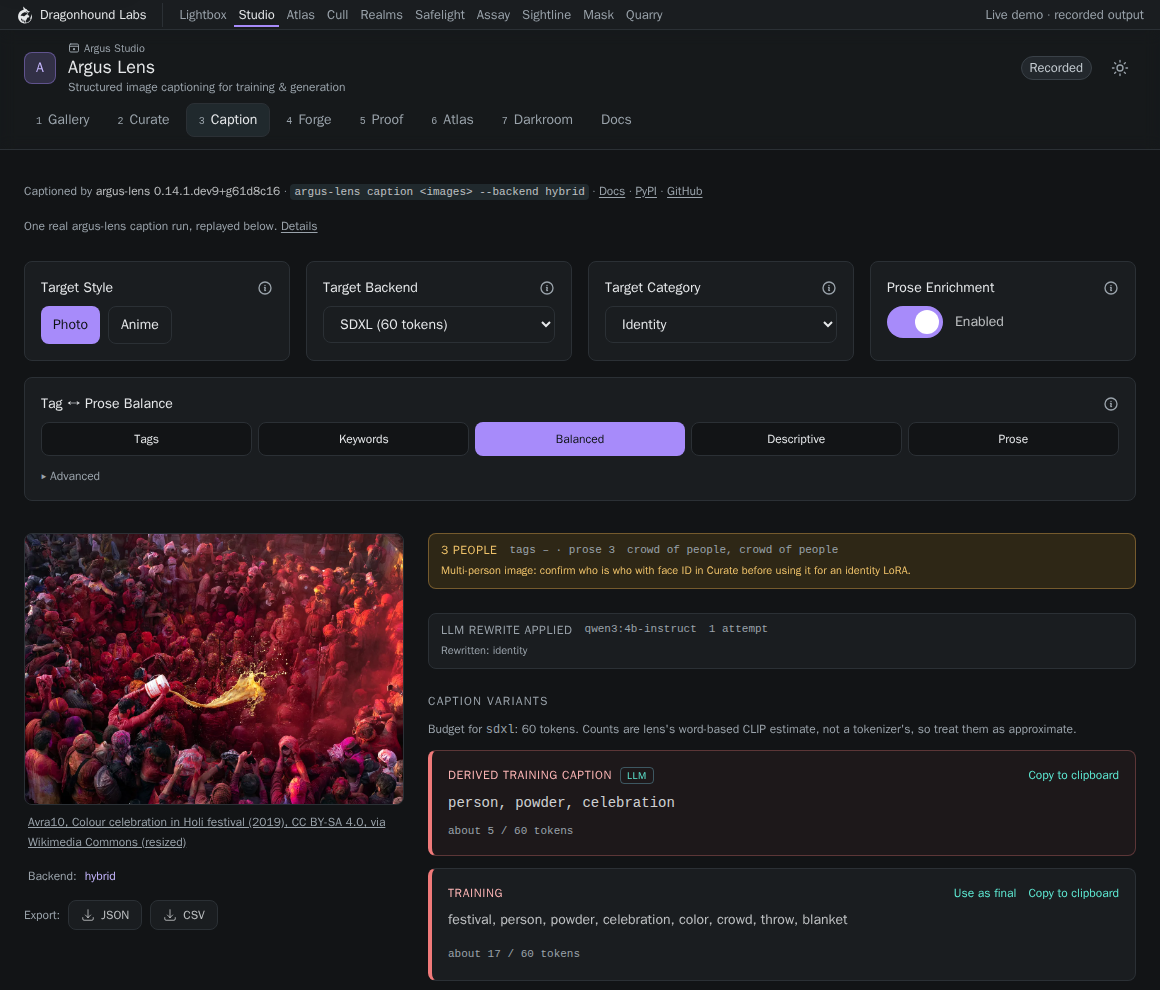
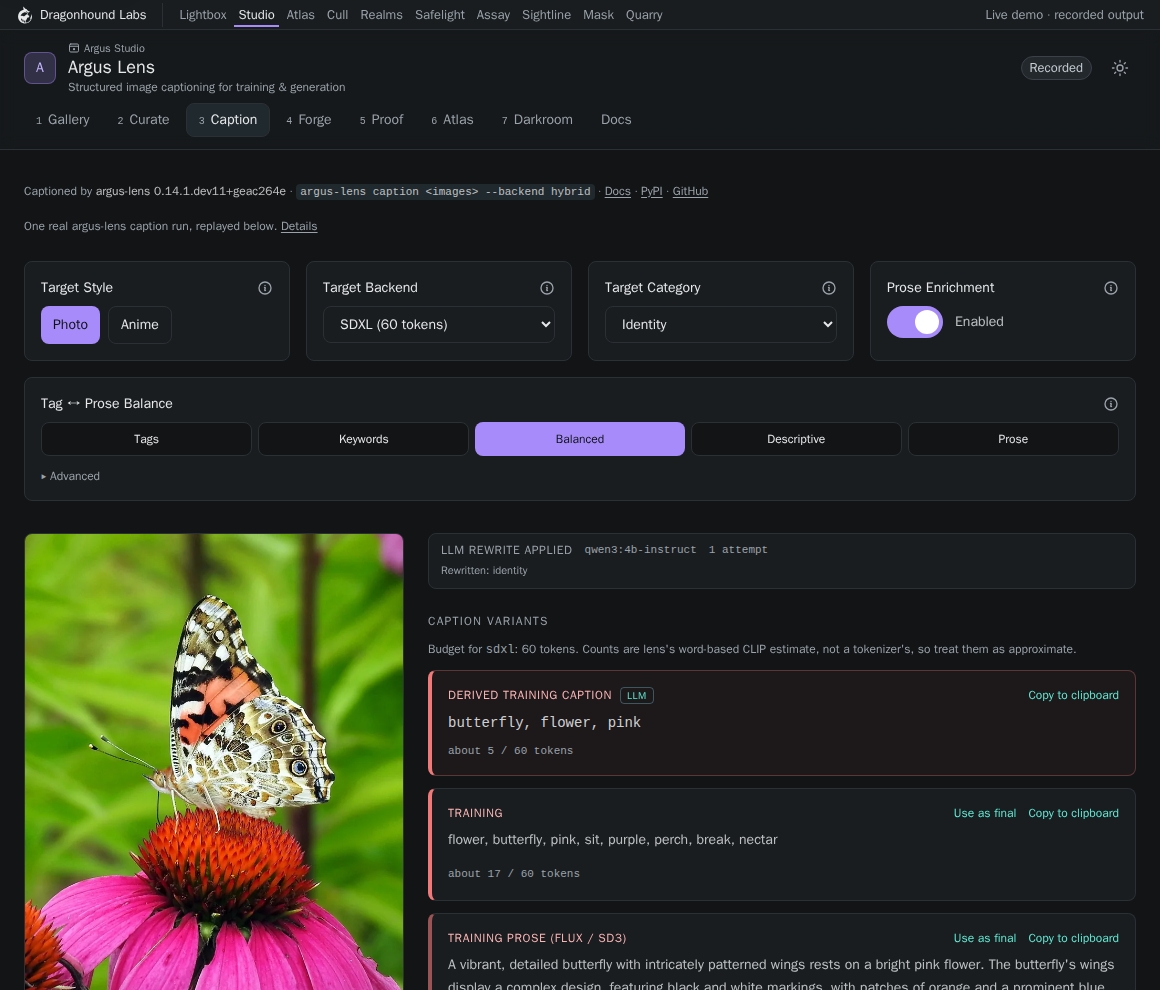
Caption demo: Lightbox's Painted Lady on lens dev HEAD
Swaps the CC BY-SA Holi photo for a public-domain one shared from
argus-lightbox's demo set (U.S. Fish and Wildlife Service, "Painted
Lady", Public Domain Mark 1.0), so both caption demos keep to CC0/PD
media. Re-recorded on argus-lens 0.14.1.dev11 (eac264e, dev HEAD) with
the same flags; demo.json's lens pin follows. README screenshots
retaken.

diff --git a/frontend/src/lib/lensSample.ts b/frontend/src/lib/lensSample.ts
@@ -1,73 +1,65 @@
 /**
  * Recorded argus-lens caption for the static demo (lib/staticDemo.ts).
  *
- * Provenance: a real argus-lens 0.14.1.dev9+g61d8c16 run (its `dev` HEAD,
- * recorded 2026-11-20) of `argus-lens caption -b hybrid:ram+openai-compat
+ * Provenance: a real argus-lens 0.14.1.dev11+geac264e run (its `dev` HEAD,
+ * recorded 2026-11-21) of `argus-lens caption -b hybrid:ram+openai-compat
  * --prompt straightforward --refine-variants identity`: RAM++ tags on CUDA
  * (under an argus-iris `caption` lease), qwen3-vl:2b-instruct prose and the
  * identity variant refined by qwen3:4b-instruct, both from Ollama on CPU. The
  * result is kept verbatim, less the `name` the JSON exporter adds; only the
  * recording fields at the end of `metadata` (from `recorded` on) are Studio's.
- * The source image is "Colour celebration in Holi festival" by Avra10 (2019,
- * a Wiki Loves Folklore 2024 winner) on Wikimedia Commons, CC BY-SA 4.0,
- * captioned at its full 1920x1372; a resized WebP copy (1200x858, under the
- * same licence) ships at `public/demo/lens/holi-festival-2019.webp`.
+ * The source image is "Painted Lady" by the U.S. Fish and Wildlife Service,
+ * Northeast Region, on Flickr under the Public Domain Mark 1.0, shared from
+ * argus-lightbox's demo tape (photo d34f3d90d7e87939, via Megalith-10m): the
+ * same 720x960 WebP, captioned as is, ships at
+ * `public/demo/lens/painted-lady.webp`.
  */
 
 import type { CaptionResult } from "@/types";
 
 export const RECORDED_CAPTION: CaptionResult = {
-  "final_caption": "person, powder, celebration",
+  "final_caption": "butterfly, flower, pink",
   "caption_variants": {
-    "identity": "person, powder, celebration",
-    "wardrobe": "festival, person, powder, some are bent, reaching out, others are standing with arms raised",
-    "pose_composition": "some are bent, reaching out, others are standing with arms raised, festival, person, powder",
-    "setting": "festival, person, powder, some are bent, reaching out, others are standing with arms raised",
-    "lighting": "festival, person, powder, some are bent, reaching out, others are standing with arms raised",
-    "action": "a high-angle view captures a vibrant holi festival scene, focusing on a central figure holding a white bucket, from which a thick stream of yellow-colored powder erupts upward, striking a dense crowd of people",
-    "training": "festival, person, powder, celebration, color, crowd, throw, blanket",
-    "training_prose": "A high-angle view captures a vibrant Holi festival scene, focusing on a central figure holding a white bucket, from which a thick stream of yellow-colored powder erupts upward, striking a dense crowd of people.",
-    "zeroshot": "the ground is obscured by the falling powder, creating a dynamic visual effect as the particles rise against the backdrop of a crowd of people, filled with a riot of color, with the red and orange hues of the festival dominating the visual landscape"
+    "identity": "butterfly, flower, pink",
+    "wardrobe": "flower, butterfly, pink, a vibrant, detailed butterfly with intricately patterned wings rests on a bright pink flower",
+    "pose_composition": "flower, butterfly, pink, a vibrant, detailed butterfly with intricately patterned wings rests on a bright pink flower",
+    "setting": "the background is a soft, out-of-focus green, suggesting a natural outdoor setting, flower, butterfly, pink",
+    "lighting": "a vibrant, detailed butterfly with intricately patterned wings rests on a bright pink flower, flower, butterfly, pink",
+    "action": "flower, butterfly, pink, a vibrant, detailed butterfly with intricately patterned wings rests on a bright pink flower",
+    "training": "flower, butterfly, pink, sit, purple, perch, break, nectar",
+    "training_prose": "A vibrant, detailed butterfly with intricately patterned wings rests on a bright pink flower. The butterfly's wings display a complex design, featuring black and white markings, with patches of orange and a prominent blue eye-like spot near the wingtip.",
+    "zeroshot": "the flower has a dense, spiky orange center and wide, velvety pink petals, flower, butterfly, sit, purple, perch, break, nectar, a vibrant, detailed butterfly with intricately patterned wings rests on a bright pink flower"
   },
   "selected_category": "identity",
   "removed_phrases": [
-    "celebrate",
-    "spray",
-    "liquid",
-    "flare",
-    "crowded",
-    "the individuals, many with their heads covered in a mix of red and other colored powders, are tightly packed in a circular formation",
-    "the ground is obscured by the falling powder, creating a dynamic visual effect as the particles rise against the backdrop of a crowd of people",
-    "filled with a riot of color, with the red and orange hues of the festival dominating the visual landscape",
-    "some are bent over, reaching out, and others are standing with arms raised",
-    "a high-angle view captures a vibrant holi festival scene, focusing on a central figure holding a white bucket, from which a thick stream of yellow-colored powder erupts upward, striking a dense crowd of people",
-    "celebration",
-    "color",
-    "crowd",
-    "throw",
-    "blanket",
-    "festival",
-    "person",
-    "powder",
-    "the individuals, many with their heads covered in a mix of red and other colored powders, are tightly packed in a circular formation.",
-    "some are bent over, reaching out, and others are standing with arms raised.",
-    "the ground is obscured by the falling powder, creating a dynamic visual effect as the particles rise against the backdrop of a crowd of people.",
-    "filled with a riot of color, with the red and orange hues of the festival dominating the visual landscape."
+    "the flower has a dense, spiky orange center and wide, velvety pink petals",
+    "the butterfly's wings display a complex design, featuring black and white markings, with patches of orange and a prominent blue eye-like spot near the wingtip",
+    "a vibrant, detailed butterfly with intricately patterned wings rests on a bright pink flower",
+    "the background is a soft, out-of-focus green, suggesting a natural outdoor setting",
+    "sit",
+    "purple",
+    "perch",
+    "break",
+    "nectar",
+    "flower",
+    "butterfly",
+    "pink",
+    "the flower has a dense, spiky orange center and wide, velvety pink petals.",
+    "the background is a soft, out-of-focus green, suggesting a natural outdoor setting."
   ],
   "compaction_notes": [
-    "Normalised prose (opener).",
     "Trimmed lower-priority fragments to keep captions compact.",
     "Repaired disjointed fragments in assembled captions.",
     "Refined identity with qwen3:4b-instruct."
   ],
-  "raw_tags": "festival, person, powder, celebration, color, crowd, throw, blanket, celebrate, spray, liquid, flare, crowded",
-  "raw_prose": "A high-angle view captures a vibrant Holi festival scene, focusing on a central figure holding a white bucket, from which a thick stream of yellow-colored powder erupts upward, striking a dense crowd of people. The individuals, many with their heads covered in a mix of red and other colored powders, are tightly packed in a circular formation. Some are bent over, reaching out, and others are standing with arms raised. The ground is obscured by the falling powder, creating a dynamic visual effect as the particles rise against the backdrop of a crowd of people. The scene is filled with a riot of color, with the red and orange hues of the festival dominating the visual landscape.",
+  "raw_tags": "flower, butterfly, pink, sit, purple, perch, break, nectar",
+  "raw_prose": "A vibrant, detailed butterfly with intricately patterned wings rests on a bright pink flower. The butterfly's wings display a complex design, featuring black and white markings, with patches of orange and a prominent blue eye-like spot near the wingtip. The flower has a dense, spiky orange center and wide, velvety pink petals. The background is a soft, out-of-focus green, suggesting a natural outdoor setting.",
   "backend_name": "hybrid",
   "metadata": {
     "empty_categories": [
       "wardrobe",
-      "setting",
-      "lighting"
+      "pose_composition",
+      "action"
     ],
     "buckets": {
       "tags": {
@@ -78,52 +70,43 @@ export const RECORDED_CAPTION: CaptionResult = {
         "lighting": [],
         "action": [],
         "unclassified": [
-          "festival",
-          "person",
-          "powder",
-          "celebration",
-          "color",
-          "crowd",
-          "throw",
-          "blanket",
-          "celebrate",
-          "spray",
-          "liquid",
-          "flare",
-          "crowded"
+          "flower",
+          "butterfly",
+          "pink",
+          "sit",
+          "purple",
+          "perch",
+          "break",
+          "nectar"
         ]
       },
       "prose": {
         "identity": [],
         "wardrobe": [],
-        "pose_composition": [
-          "some are bent over, reaching out, and others are standing with arms raised"
+        "pose_composition": [],
+        "setting": [
+          "the background is a soft, out-of-focus green, suggesting a natural outdoor setting"
         ],
-        "setting": [],
-        "lighting": [],
-        "action": [
-          "a high-angle view captures a vibrant holi festival scene, focusing on a central figure holding a white bucket, from which a thick stream of yellow-colored powder erupts upward, striking a dense crowd of people"
+        "lighting": [
+          "a vibrant, detailed butterfly with intricately patterned wings rests on a bright pink flower",
+          "the butterfly's wings display a complex design, featuring black and white markings, with patches of orange and a prominent blue eye-like spot near the wingtip"
         ],
+        "action": [],
         "unclassified": [
-          "the individuals, many with their heads covered in a mix of red and other colored powders, are tightly packed in a circular formation",
-          "the ground is obscured by the falling powder, creating a dynamic visual effect as the particles rise against the backdrop of a crowd of people",
-          "filled with a riot of color, with the red and orange hues of the festival dominating the visual landscape"
+          "the flower has a dense, spiky orange center and wide, velvety pink petals"
         ]
       }
     },
     "subjects": {
-      "count": 3,
-      "multiple": true,
+      "count": null,
+      "multiple": false,
       "tag_count": null,
-      "prose_count": 3,
+      "prose_count": null,
       "agree": null,
-      "evidence": [
-        "crowd of people",
-        "crowd of people"
-      ]
+      "evidence": []
     },
     "monochrome": false,
-    "reconciled_tags": "festival, person, powder, celebration, color, crowd, throw, blanket, celebrate, spray, liquid, flare, crowded",
+    "reconciled_tags": "flower, butterfly, pink, sit, purple, perch, break, nectar",
     "tag_reconcile": {
       "dropped": [],
       "added": [],
@@ -139,32 +122,33 @@ export const RECORDED_CAPTION: CaptionResult = {
       "attempts": 1
     },
     "recorded": true,
-    "lens_version": "0.14.1.dev9+g61d8c16",
+    "lens_version": "0.14.1.dev11+geac264e",
     "backend": "hybrid:ram+openai-compat",
     "tag_model": "RAM++ (ram_plus_swin_large_14m)",
     "prose_model": "qwen3-vl:2b-instruct (prompt: straightforward)",
     "refine_model": "qwen3:4b-instruct (identity variant)",
     "device": "cuda",
-    "image": "holi.jpg",
+    "image": "painted-lady.webp",
     "source": {
-      "title": "Colour celebration in Holi festival.jpg",
-      "author": "Avra10",
-      "license": "CC BY-SA 4.0",
-      "source_url": "https://commons.wikimedia.org/wiki/File:Colour_celebration_in_Holi_festival.jpg"
+      "title": "Painted Lady",
+      "author": "U.S. Fish and Wildlife Service - Northeast Region",
+      "license": "Public Domain Mark 1.0",
+      "source_url": "https://www.flickr.com/photos/usfwsnortheast/48671279001",
+      "via": "argus-lightbox demo tape (Megalith-10m)"
     },
-    "lens_commit": "61d8c16a6",
-    "recorded_at": "2026-11-20"
+    "lens_commit": "eac264e23",
+    "recorded_at": "2026-11-21"
   }
 };
 
 /** The captioned image, as shipped with the static demo. */
 export const RECORDED_CAPTION_IMAGE = {
-  src: "/demo/lens/holi-festival-2019.webp",
-  width: 1200,
-  height: 858,
+  src: "/demo/lens/painted-lady.webp",
+  width: 720,
+  height: 960,
   alt:
-    "Seen from above at a Holi festival: a dense crowd covered in red and pink powder, one person tipping a " +
-    "white bucket that sends a stream of yellow powder arcing over the heads.",
-  attribution: "Avra10, Colour celebration in Holi festival (2019), CC BY-SA 4.0, via Wikimedia Commons (resized)",
-  sourceUrl: "https://commons.wikimedia.org/wiki/File:Colour_celebration_in_Holi_festival.jpg",
+    "A painted lady butterfly, wings spread in orange, black and white, feeding on a bright pink coneflower " +
+    "with a spiky orange centre, against a soft green background.",
+  attribution: "U.S. Fish and Wildlife Service, Northeast Region, Painted Lady, Public Domain Mark 1.0, via Flickr",
+  sourceUrl: "https://www.flickr.com/photos/usfwsnortheast/48671279001",
 } as const;

diff --git a/CHANGELOG.md b/CHANGELOG.md
@@ -6,7 +6,7 @@ All notable changes to argus-studio are recorded here. The format follows [Keep 
 
 ### Changed
 
-- **The demo samples are real, colourful action photos now.** The static `/` caption is re-recorded (same lens, same flags) on a modern photo, Avra10's "Colour celebration in Holi festival" (2019, CC BY-SA 4.0, via Wikimedia Commons), in place of Knötel's 1863 uniform plate, and the README's three caption screenshots are retaken from it. `/curate`'s synthetic SDXL set is replaced by 14 CC0 sports photos from PD12M, found and fetched through argus-quarry's archive index: two handball players, a volleyball player, a cross-country skier and a relay team (Wikimedia Commons, Estonian Sports and Olympic Museum), a near duplicate and three derived rejects. Frames were kept where a person recurs and every face, background included, reads as an adult; NudeNet's `suggestive` rating (sports kit) was not a reason to drop one. They are joined by 36 of argus-cull's synthetic demo frames (five fictional adults), shared so Studio and Cull show the same guard cases: eleven crime-film stills, lingerie and a boudoir robe, a watermark frame and a group shot, 50 images in all. `scripts/make_curator_sample.py` now rebuilds the set from quarry and an argus-cull checkout (pinned PD12M ids, Cull tape ids and sha256s) instead of generating it. The scan is re-recorded on the same curator 0.18.0 and detectors, now with SingGuard's `default`, `adult-granular`, `adult-cautious` and `adult-cinematic` policies beside `adult`, argus-retina's watermark detector with detected crops, and argus-cull's 0.8 face-clustering distance. Eleven frames are unsafe under at least one policy and veiled until revealed.
+- **The demo samples are real, colourful action photos now.** The static `/` caption is re-recorded on argus-lens 0.14.1.dev11 (`eac264e`, its `dev` HEAD; same flags) on a vivid modern photo shared from argus-lightbox's demo set, the U.S. Fish and Wildlife Service's "Painted Lady" (a butterfly on a pink coneflower, Public Domain Mark 1.0, via Flickr), in place of Knötel's 1863 uniform plate, so both caption demos keep to CC0 and public-domain media. The README's three caption screenshots are retaken from it. `/curate`'s synthetic SDXL set is replaced by 14 CC0 sports photos from PD12M, found and fetched through argus-quarry's archive index: two handball players, a volleyball player, a cross-country skier and a relay team (Wikimedia Commons, Estonian Sports and Olympic Museum), a near duplicate and three derived rejects. Frames were kept where a person recurs and every face, background included, reads as an adult; NudeNet's `suggestive` rating (sports kit) was not a reason to drop one. They are joined by 36 of argus-cull's synthetic demo frames (five fictional adults), shared so Studio and Cull show the same guard cases: eleven crime-film stills, lingerie and a boudoir robe, a watermark frame and a group shot, 50 images in all. `scripts/make_curator_sample.py` now rebuilds the set from quarry and an argus-cull checkout (pinned PD12M ids, Cull tape ids and sha256s) instead of generating it. The scan is re-recorded on the same curator 0.18.0 and detectors, now with SingGuard's `default`, `adult-granular`, `adult-cautious` and `adult-cinematic` policies beside `adult`, argus-retina's watermark detector with detected crops, and argus-cull's 0.8 face-clustering distance. Eleven frames are unsafe under at least one policy and veiled until revealed.
 - **Demo recordings and the curator wire pin move to each package's `dev` HEAD** (#250, #259). The static `/` caption is re-recorded on argus-lens 0.14.1.dev9 (`61d8c16`): the same flags, now with lens's factual `straightforward` prompt and reconcile checks, so the prose reads plainer. `/curate`'s scan is re-recorded on argus-curator 0.18.0 (`b94d89b`) over the kept 2026-11-18 images, against the same NudeNet and SingGuard servers as before, and finds exactly what it found before. The curator pin moves with it, adding `legacy_min_short_side` to `ScanSummary`. The GPU work of both runs was leased from argus-iris.
 
 ## [0.6.0] - 2026-11-19

diff --git a/README.md b/README.md
@@ -17,7 +17,7 @@ Designed as a living onboarding document -- every parameter includes an inline e
 
 ![Raw model outputs and auto-removed tags](docs/images/spa-output-raw.png)
 
-<sub>Screenshots are from the static demo, captioning [Colour celebration in Holi festival by Avra10 (2019)](https://commons.wikimedia.org/wiki/File:Colour_celebration_in_Holi_festival.jpg), [CC BY-SA 4.0](https://creativecommons.org/licenses/by-sa/4.0/), via Wikimedia Commons.</sub>
+<sub>Screenshots are from the static demo, captioning [Painted Lady by the U.S. Fish and Wildlife Service, Northeast Region](https://www.flickr.com/photos/usfwsnortheast/48671279001), [Public Domain Mark 1.0](https://creativecommons.org/publicdomain/mark/1.0/), shared from argus-lightbox's demo set.</sub>
 
 ## Quick Start
 
